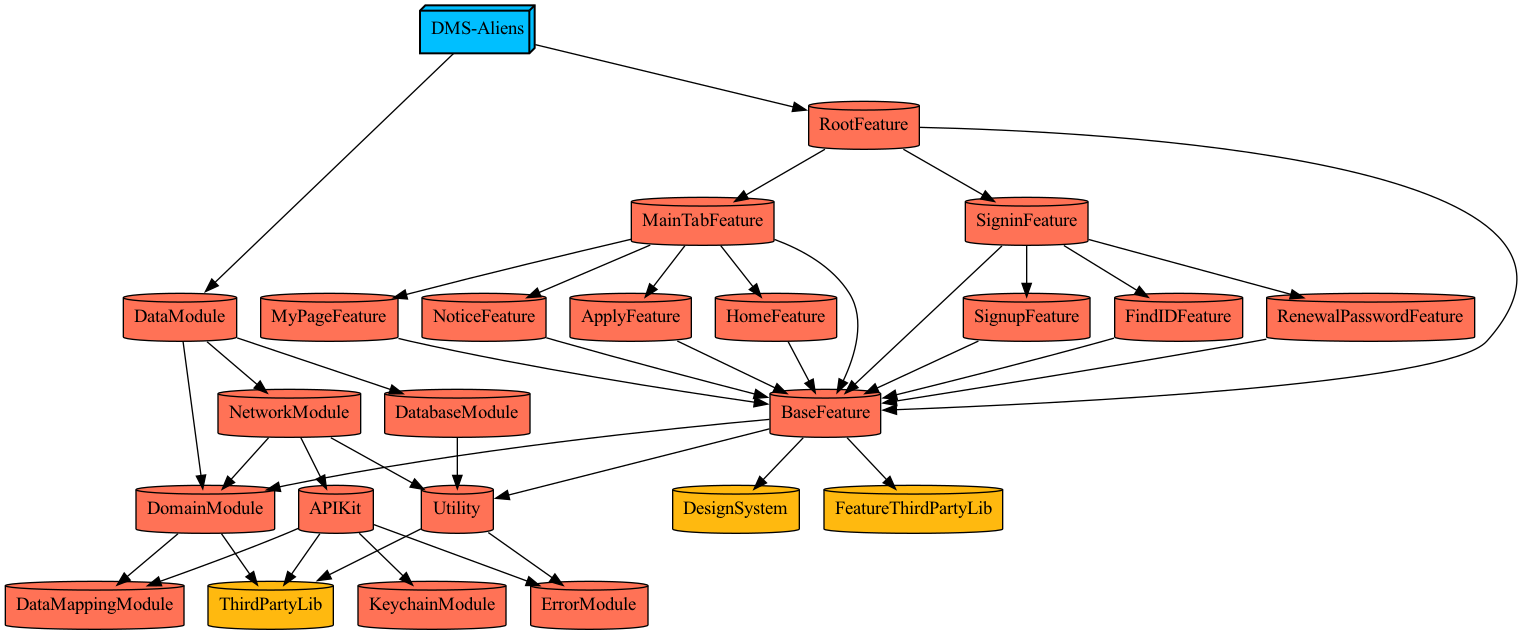
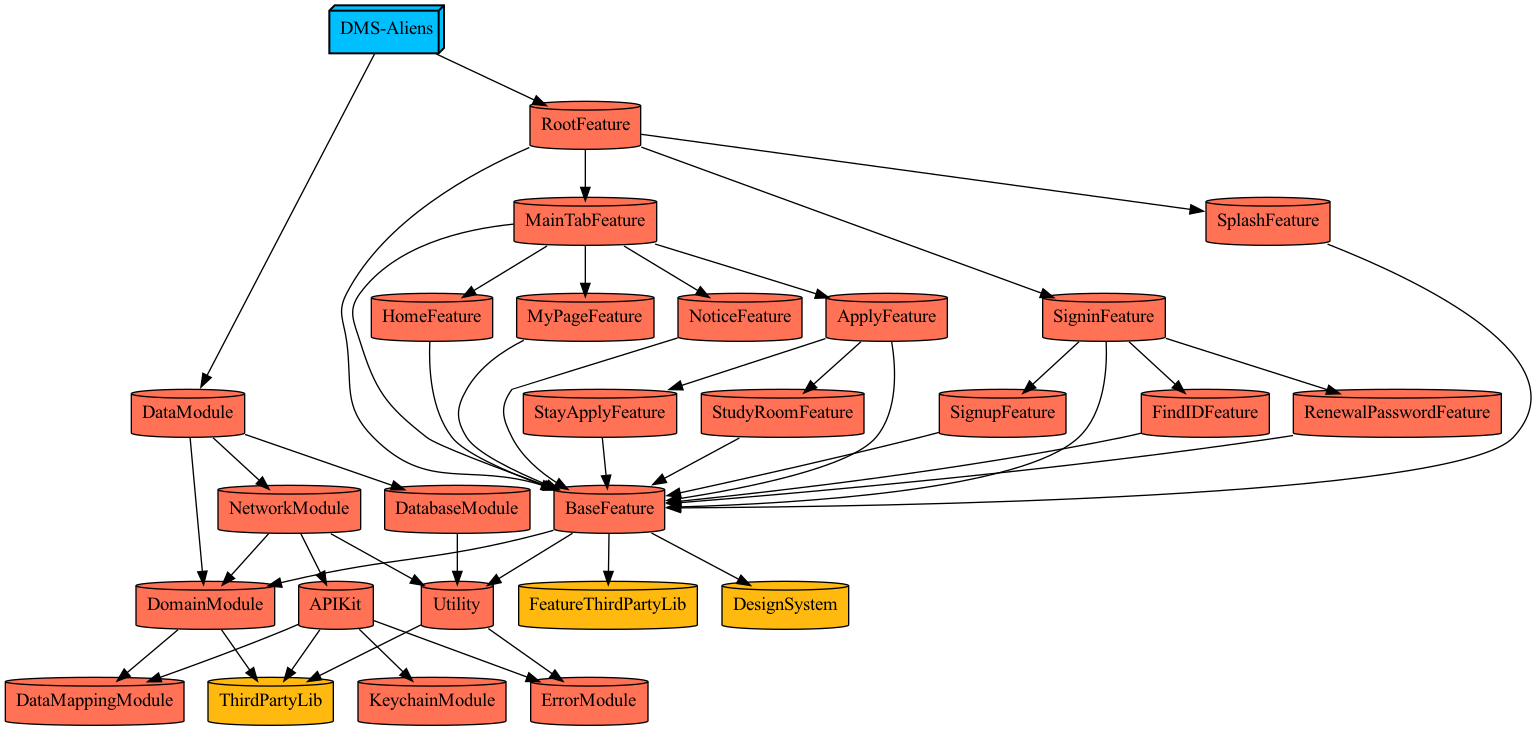
feat :: 새로운 Feature 생성 및 graph 변경

diff --git a/Plugin/UtilityPlugin/ProjectDescriptionHelpers/Dependency+Project.swift b/Plugin/UtilityPlugin/ProjectDescriptionHelpers/Dependency+Project.swift
@@ -10,6 +10,8 @@ public extension TargetDependency {
 }
 
 public extension TargetDependency.Project.Features {
+    static let StayApplyFeature = TargetDependency.feature(name: "StayApplyFeature")
+    static let StudyRoomFeature = TargetDependency.feature(name: "StudyRoomFeature")
     static let SplashFeature = TargetDependency.feature(name: "SplashFeature")
     static let MyPageFeature = TargetDependency.feature(name: "MyPageFeature")
     static let NoticeFeature = TargetDependency.feature(name: "NoticeFeature")

diff --git a/Projects/Features/StayApplyFeature/Tests/TargetTests.swift b/Projects/Features/StayApplyFeature/Tests/TargetTests.swift
@@ -1,0 +1,17 @@
+import XCTest
+
+class TargetTests: XCTestCase {
+
+    override func setUpWithError() throws {
+        // Put setup code here. This method is called before the invocation of each test method in the class.
+    }
+
+    override func tearDownWithError() throws {
+        // Put teardown code here. This method is called after the invocation of each test method in the class.
+    }
+
+    func testExample() throws {
+        XCTAssertEqual("A", "A")
+    }
+
+}

diff --git a/Projects/Features/StudyRoomFeature/Tests/TargetTests.swift b/Projects/Features/StudyRoomFeature/Tests/TargetTests.swift
@@ -1,0 +1,17 @@
+import XCTest
+
+class TargetTests: XCTestCase {
+
+    override func setUpWithError() throws {
+        // Put setup code here. This method is called before the invocation of each test method in the class.
+    }
+
+    override func tearDownWithError() throws {
+        // Put teardown code here. This method is called after the invocation of each test method in the class.
+    }
+
+    func testExample() throws {
+        XCTAssertEqual("A", "A")
+    }
+
+}

diff --git a/Projects/Features/ApplyFeature/Project.swift b/Projects/Features/ApplyFeature/Project.swift
@@ -5,6 +5,8 @@ let project = Project.makeModule(
     name: "ApplyFeature",
     product: .staticFramework,
     dependencies: [
-        .Project.Features.BaseFeature
+        .Project.Features.BaseFeature,
+        .Project.Features.StudyRoomFeature,
+        .Project.Features.StayApplyFeature
     ]
 )

diff --git a/Projects/Features/StayApplyFeature/Project.swift b/Projects/Features/StayApplyFeature/Project.swift
@@ -1,0 +1,10 @@
+import ProjectDescription
+import ProjectDescriptionHelpers
+
+let project = Project.makeModule(
+    name: "StayApplyFeature",
+    product: .staticFramework,
+    dependencies: [
+        .Project.Features.BaseFeature
+    ]
+)

diff --git a/Projects/Features/StudyRoomFeature/Project.swift b/Projects/Features/StudyRoomFeature/Project.swift
@@ -1,0 +1,10 @@
+import ProjectDescription
+import ProjectDescriptionHelpers
+
+let project = Project.makeModule(
+    name: "StudyRoomFeature",
+    product: .staticFramework,
+    dependencies: [
+        .Project.Features.BaseFeature
+    ]
+)

diff --git a/Projects/Features/StayApplyFeature/Sources/StayApplyFeature.swift b/Projects/Features/StayApplyFeature/Sources/StayApplyFeature.swift
@@ -1,0 +1,1 @@
+// This is for tuist

diff --git a/Projects/Features/StudyRoomFeature/Sources/StudyRoomFeature.swift b/Projects/Features/StudyRoomFeature/Sources/StudyRoomFeature.swift
@@ -1,0 +1,1 @@
+// This is for tuist
